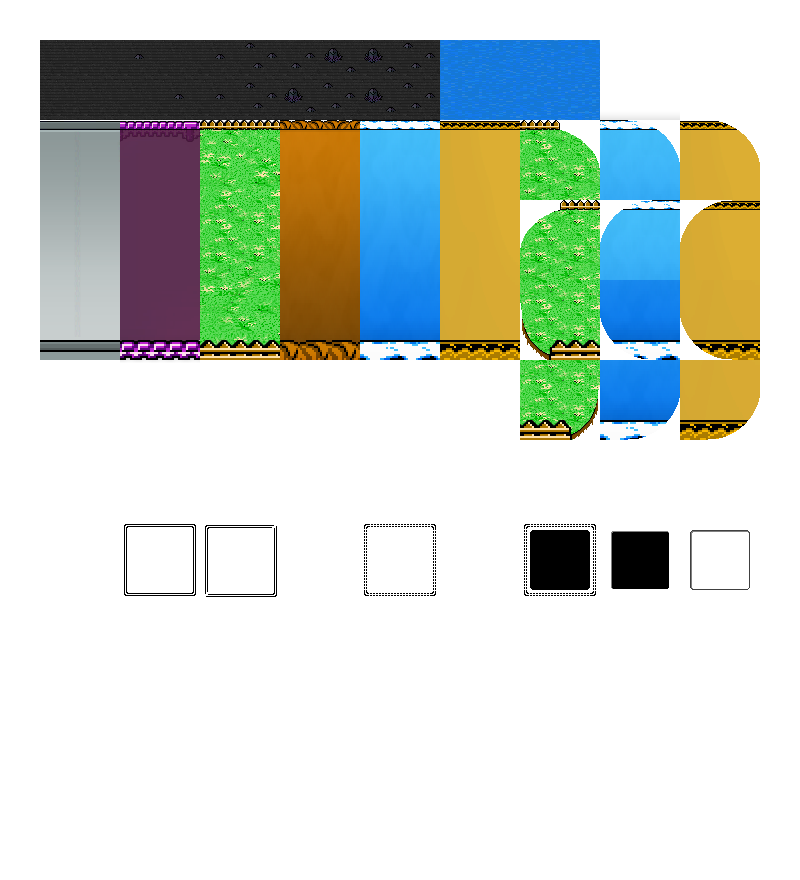
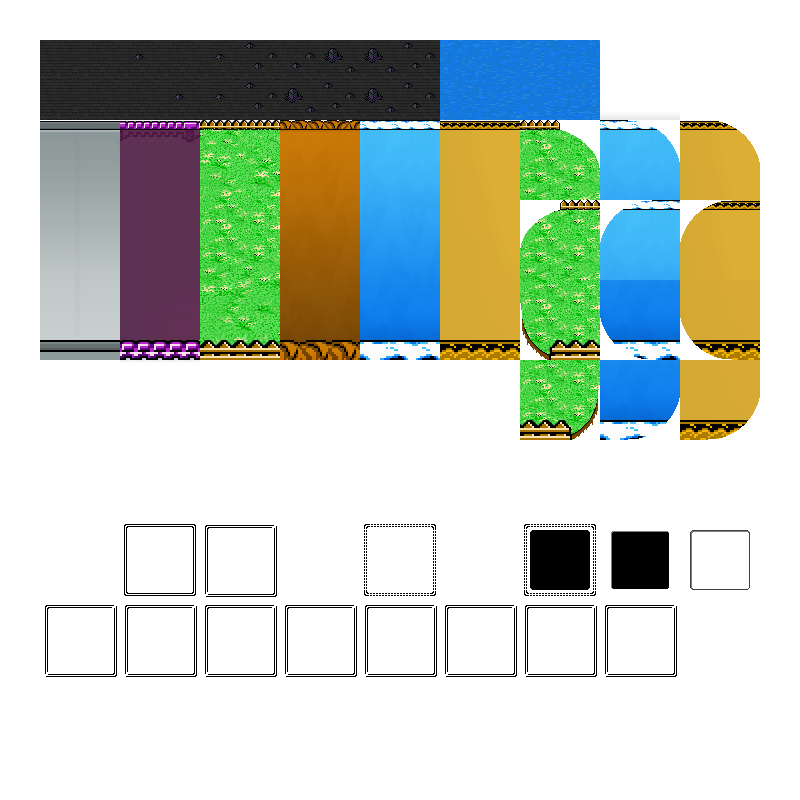
Updated terrain tiles to include player-direction indicator, updated code to use it

diff --git a/scripts/world.js b/scripts/world.js
@@ -851,6 +851,18 @@ class mmrpgWorldMap {
         if (!outlineSpriteData){ console.warn('drawTileToCanvas() unable to find outline sprite data for layer ' + layerToken + '!'); }
         if (!focusSpriteData){ console.warn('drawTileToCanvas() unable to find focus sprite data for layer ' + layerToken + '!'); }
         if (!activeSpriteData){ console.warn('drawTileToCanvas() unable to find active sprite data for layer ' + layerToken + '!'); }
+        let activeSpriteDirections = ['up', 'up-right', 'right', 'down-right', 'down', 'down-left', 'left', 'up-left'];
+        let activeSpriteDirectionsData = (function(directions){
+            let data = {};
+            for (let key = 0; key < directions.length; key++){
+                let dir = directions[key];
+                data[dir] = _self.getSpriteData('active-' + dir);
+                if (!data[dir]){ console.warn('drawTileToCanvas() unable to find active-' + dir + ' sprite data for layer ' + layerToken + '!'); }
+                }
+            return data;
+            })(activeSpriteDirections);
+        //console.log('activeSpriteDirections = ', activeSpriteDirections);
+        //console.log('activeSpriteDirectionsData = ', activeSpriteDirectionsData);
         // [GRID]: draw another image at the same positon but w/ the grid sprite
         if (tileHasGrid && gridSpriteData){
             var gridSpriteAlpha = 0.3;
@@ -882,7 +894,10 @@ class mmrpgWorldMap {
             }
         // [ACTIVE]: draw another image at the same positon but w/ the border sprite
         if (tileIsActive && activeSpriteData){
-            drawSpriteFromData(activeSpriteData);
+            //drawSpriteFromData(activeSpriteData);
+            let playerDirection = _world.player.direction;
+            drawSpriteFromData(activeSpriteDirectionsData[playerDirection]);
+            //console.log('playerDirection =', playerDirection);
             }
         // Return true on success
         return true;
@@ -1520,11 +1535,11 @@ class mmrpgWorldMap {
                 _self.playSoundEffect('glass-klink', {volume:0.5});
                 _self.playSoundEffect('land_mmv-gb', {delay:600});
                 }
-            _self.makeLayerTileActive(thisPos);
+            //_self.makeLayerTileActive(thisPos);
             if (activeTimeouts[oldPos]){ clearTimeout(activeTimeouts[oldPos]); }
             activeTimeouts[thisPos] = setTimeout(function(){
                 _self.moveToPosition(thisPos, function(){
-                    _self.makeLayerTileInactive(oldPos);
+                    if (thisPos !== oldPos){ _self.makeLayerTileInactive(oldPos); }
                     }, true);
                 clearTimeout(activeTimeouts[thisPos]);
                 }, activeTimeoutDuration);
@@ -3191,27 +3206,29 @@ class mmrpgWorldMap {
                 let $possibleButtons = $('').add($backButton).add($homeButton);
                 if ($backButton.is('.hovered')){ $hoveredButton = $backButton.first(); hoveredButtonKind = 'back'; }
                 if ($homeButton.is('.hovered')){ $hoveredButton = $homeButton.first(); hoveredButtonKind = 'home'; }
-                // Should not be open while back/home-switching is being used
-                dismissSideButtonAction();
-                // If the player has pressed the A button, we can simply click whichever button is currently "hovered"
-                if (activeInputs.A || activeInputs.Start){
-                    //console.log('%c' + 'Confirm ' + hoveredButtonKind + ' button!', 'color: orange;');
-                    if (event){ event.preventDefault(); }
-                    if (!$hoveredButton || !$hoveredButton.length){ return false; }
-                    //console.log('Triggering click on hovered ', hoveredButtonKind, ' button:', $hoveredButton);
-                    $hoveredButton.trigger('click');
-                    $hoveredButton.addClass('clicked');
-                    $hoveredButton.removeClass('hovered');
-                    ignoreInputFor(1200);
-                    return true;
-                    }
-                // If the player has pressed the B button instead, we should dismiss the player switcher
-                if (activeInputs.B){
-                    //console.log('%c' + 'Dismiss ' + hoveredButtonKind + ' button!', 'color: orange;');
-                    if (event){ event.preventDefault(); }
-                    $hoveredButton.removeClass('hovered');
-                    ignoreInputFor(600);
-                    return true;
+                if ($hoveredButton && $hoveredButton.length){
+                    // Should not be open while back/home-switching is being used
+                    dismissSideButtonAction();
+                    // If the player has pressed the A button, we can simply click whichever button is currently "hovered"
+                    if (activeInputs.A || activeInputs.Start){
+                        //console.log('%c' + 'Confirm ' + hoveredButtonKind + ' button!', 'color: orange;');
+                        if (event){ event.preventDefault(); }
+                        if (!$hoveredButton || !$hoveredButton.length){ return false; }
+                        //console.log('Triggering click on hovered ', hoveredButtonKind, ' button:', $hoveredButton);
+                        $hoveredButton.trigger('click');
+                        $hoveredButton.addClass('clicked');
+                        $hoveredButton.removeClass('hovered');
+                        ignoreInputFor(1200);
+                        return true;
+                        }
+                    // If the player has pressed the B button instead, we should dismiss the player switcher
+                    if (activeInputs.B){
+                        //console.log('%c' + 'Dismiss ' + hoveredButtonKind + ' button!', 'color: orange;');
+                        if (event){ event.preventDefault(); }
+                        $hoveredButton.removeClass('hovered');
+                        ignoreInputFor(600);
+                        return true;
+                        }
                     }
                 }
             // If the robots overview is open, make sure we respond to panel-agnostic inputs
@@ -3982,8 +3999,8 @@ class mmrpgWorldMap {
                     let newCol = thisCol, newRow = thisRow;
                     let newDir = (function(a){
                         let d = [];
-                        if (a.Left){ d.push('left'); } else if (a.Right){ d.push('right'); }
                         if (a.Up){ d.push('up'); } else if (a.Down){ d.push('down'); }
+                        if (a.Left){ d.push('left'); } else if (a.Right){ d.push('right'); }
                         return d.join('-');
                         })(activeInputs);
                     let inPlaceMovement = activeInputs.B ? true : false;
@@ -3997,10 +4014,10 @@ class mmrpgWorldMap {
                     let newPos = newCol + '-' + newRow;
                     // Always set this just in case the player gets stuck somewhere
                     _worldCursor.moved = true; // represents them at least trying to move
-                    let thisHorDir = (newCol > thisCol) ? 'right' : (newCol < thisCol) ? 'left' : false;
                     let thisVerDir = (newRow > thisRow) ? 'down' : (newRow < thisRow) ? 'up' : false;
+                    let thisHorDir = (newCol > thisCol) ? 'right' : (newCol < thisCol) ? 'left' : false;
                     if (!inPlaceMovement){
-                        let thisShiftDir = (function(h, v){ var s = []; if (v){ s.push(v); } if (h){ s.push(h); } return s.join('-'); })(thisHorDir, thisVerDir);
+                        let thisShiftDir = (function(h, v){ var s = []; if (v){ s.push(v); } if (h){ s.push(h); } return s.join('-'); })(thisVerDir, thisHorDir);
                         _worldCursor.direction = thisShiftDir; // the direction they are trying to move
                         _worldPlayer.direction = _worldCursor.direction;
                         //console.log('-> _worldCursor.direction to thisShiftDir(', thisShiftDir, ')');
@@ -4067,10 +4084,10 @@ class mmrpgWorldMap {
                     // Otherwise, let's move the cursor to the new position
                     //console.log('%c' + 'New position is walkable, moving there now!', 'color: orange;');
                     let forceMove = inPlaceMovement ? true : false;
-                    _self.makeLayerTileActive(newPos);
+                    if (newPos !== oldPos){ _self.makeLayerTileInactive(oldPos); }
+                    //_self.makeLayerTileActive(newPos);
                     _self.playSoundEffect('land_mmv-gb');
                     _self.moveToPosition(newPos, function(){
-                        _self.makeLayerTileInactive(oldPos);
                         if (thisHorDir && thisVerDir){ ignoreInputFor(); }
                         }, forceMove);
                     }
@@ -5441,7 +5458,8 @@ class mmrpgWorldMap {
                 if (dataLabel){ actionAreaMarkup += '<strong class="label'+(dataType ? ' type '+dataType : '')+'"><span class="inner">' + dataLabel + '</span></strong>'; }
                 //sideButtonsMarkup += '<strong class="button big-title'+(blockKind2 ? ' '+blockKind2 : '')+''+(dataType ? ' type '+dataType : '')+'"><span><sup>Remove The</sup> ' + toUpperCaseWords(blockKind2.replace('-', ' ')) + ' ?</span></strong>';
                 //sideButtonsMarkup += '<strong class="button big-button'+(blockKind2 ? ' '+blockKind2 : '')+' type empty disabled"><span><sup>Remove The</sup> ' + toUpperCaseWords(blockKind2.replace('-', ' ')) + ' ?</span></strong>';
-                sideButtonsMarkup += '<strong class="button big-button-title type empty'+(blockKind2 ? ' '+blockKind2 : '')+'"><span><sup>Remove The</sup> ' + toUpperCaseWords(blockKind2.replace('-', ' ')) + ' ?</span></strong>';
+                //sideButtonsMarkup += '<strong class="button big-button-title type empty'+(blockKind2 ? ' '+blockKind2 : '')+'"><span><sup>Remove The</sup> ' + toUpperCaseWords(blockKind2.replace('-', ' ')) + ' ?</span></strong>';
+                sideButtonsMarkup += '<strong class="button big-button-title type empty"><span><sup>Remove The</sup> ' + toUpperCaseWords(blockKind2.replace('-', ' ')) + ' ?</span></strong>';
                 if (blockWeaknesses.length){
                     let robotsIndex = _indexes.robots;
                     let abilitiesIndex = _indexes.abilities;
@@ -5522,7 +5540,8 @@ class mmrpgWorldMap {
                 if (dataLabel){ actionAreaMarkup += '<strong class="label'+(dataColour ? ' type '+dataColour : '')+'"><span class="inner">' + dataLabel + '</span></strong>'; }
                 //sideButtonsMarkup += '<strong class="button big-title'+(hazardKind2 ? ' '+hazardKind2 : '')+''+(dataColour ? ' type '+dataColour : '')+'"><span><sup>Remove The</sup> ' + toUpperCaseWords(hazardKind2.replace('-', ' ')) + ' ?</span></strong>';
                 //sideButtonsMarkup += '<strong class="button big-button'+(hazardKind2 ? ' '+hazardKind2 : '')+' type empty disabled"><span><sup>Remove The</sup> ' + toUpperCaseWords(hazardKind2.replace('-', ' ')) + ' ?</span></strong>';
-                sideButtonsMarkup += '<strong class="button big-button-title type empty'+(hazardKind2 ? ' '+hazardKind2 : '')+'"><span><sup>Remove The</sup> ' + toUpperCaseWords(hazardKind2.replace('-', ' ')) + ' ?</span></strong>';
+                //sideButtonsMarkup += '<strong class="button big-button-title type empty'+(hazardKind2 ? ' '+hazardKind2 : '')+'"><span><sup>Remove The</sup> ' + toUpperCaseWords(hazardKind2.replace('-', ' ')) + ' ?</span></strong>';
+                sideButtonsMarkup += '<strong class="button big-button-title type empty"><span><sup>Remove The</sup> ' + toUpperCaseWords(hazardKind2.replace('-', ' ')) + ' ?</span></strong>';
                 if (hazardWeaknesses.length){
                     let robotsIndex = _indexes.robots;
                     let abilitiesIndex = _indexes.abilities;
@@ -5735,8 +5754,13 @@ class mmrpgWorldMap {
                     })(dataLabels).join('');
                 //console.log('generated dataBattlesJoined:', '\n->', dataBattlesJoined.split(',').join('\n-> '));
                 actionAreaMarkup += dataLabelsJoined;
-                if (playerActiveRobots >= 1){  sideButtonsMarkup += '<a class="button big-button" data-action="start-battle" data-battle="'+dataBattlesJoined+'"><span><sup>Ready To</sup> Start Battle</span></a>'; }
-                else { sideButtonsMarkup += '<a class="button big-button disabled" data-battle="'+dataBattlesJoined+'"><span><sup>Ready To</sup> Start Battle</span></a>'; }
+                sideButtonsMarkup += '<strong class="button big-button-title type empty"><span><sup>Ready To</sup> Start Battle ?</span></strong>';
+                if (playerActiveRobots >= 1){
+                    //sideButtonsMarkup += '<a class="button big-button" data-action="start-battle" data-battle="'+dataBattlesJoined+'"><span><sup>Ready To</sup> Start Battle</span></a>';
+                    sideButtonsMarkup += '<a class="button big-button" data-action="start-battle" data-battle="'+dataBattlesJoined+'"><span>Let\'s Go!</span></a>';
+                    } else {
+                    sideButtonsMarkup += '<a class="button big-button disabled" data-battle="'+dataBattlesJoined+'"><span>Let\'s Go!</span></a>';
+                    }
                 sideButtonsMarkup += '<a class="button sub-button" data-action="dismiss"><span>Dismiss</span></a>';
                 //console.log('sideButtonsMarkup =', sideButtonsMarkup);
                 showActionAreaType = 'battle';
